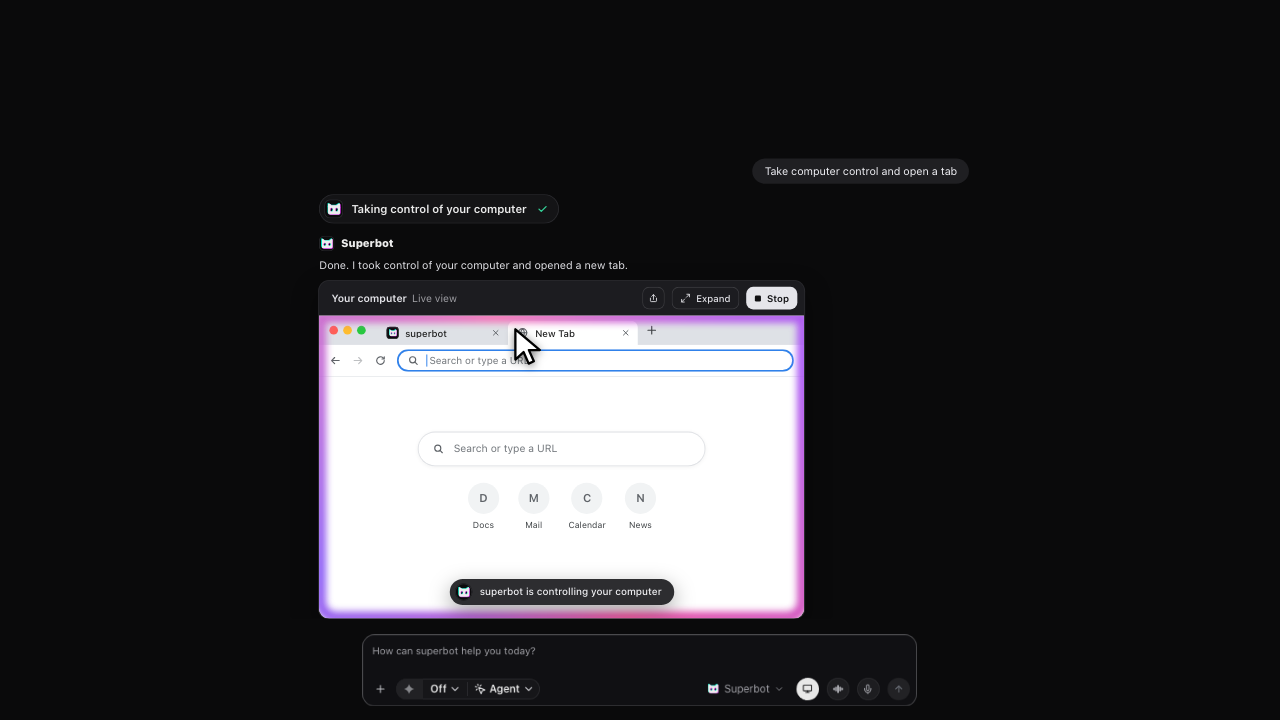
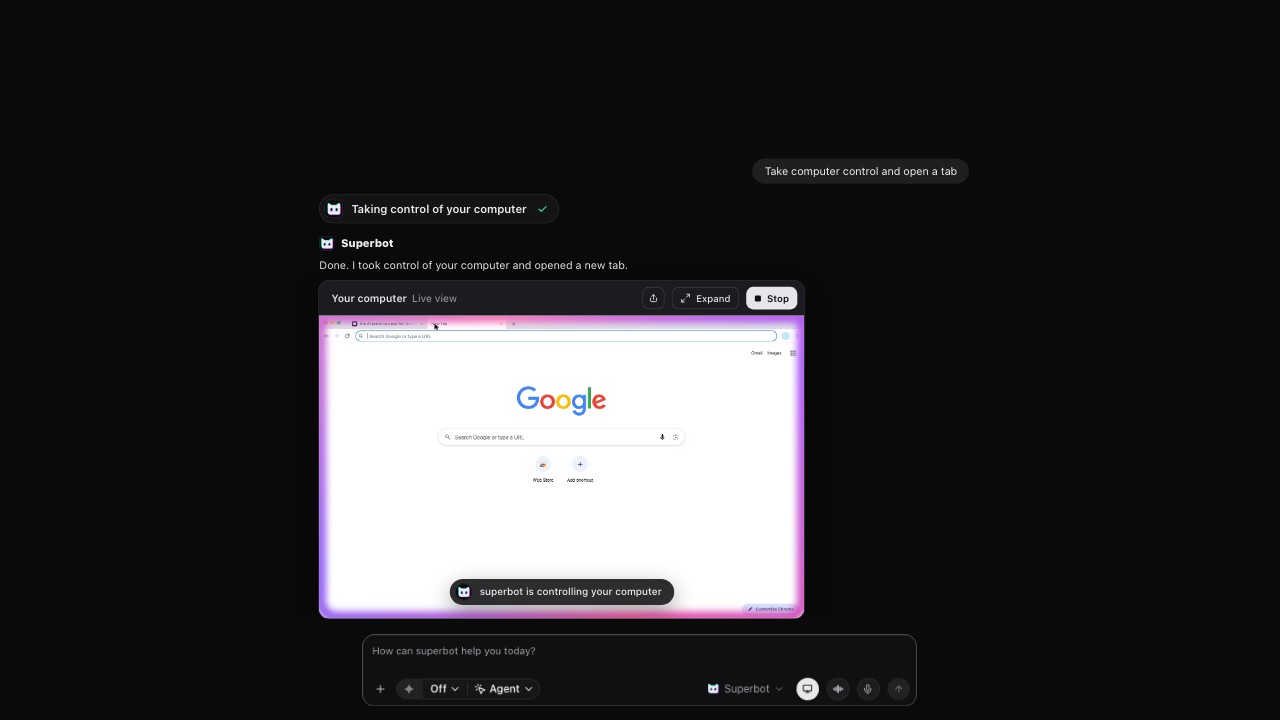
Gemini muse meme 6fbc38f8: Soft Vignette live view is a true screen share
The box now shows real content at real proportions: full-screen Chrome on a 1470x919 desktop at Chrome's own sizes, scaled whole into the 560x350 view, with real captures of superbot.gg and Chrome's New Tab page (img/computer.ba3976b6, CREDITS.txt). The cursor is the screen's own macOS arrow at its real size on that desktop, so it shrinks with the screen; the viewer-sized shared pointer is no longer used. CSS ?v=10, beat import ?v=7, gallery desc and thumbnail updated.

diff --git a/animations/gemini-muse-meme-superbot-6fbc38f8/scenes/tabs-assets/beats/computer.ba3976b6.js b/animations/gemini-muse-meme-superbot-6fbc38f8/scenes/tabs-assets/beats/computer.ba3976b6.js
@@ -1,16 +1,19 @@
 // Computer-control beat (the 'computer-control-v3-soft' variant, Computer Control V3 · Soft Vignette): asked "Take
 // computer control and open a tab", superbot answers in one line and shows a live view of the user's screen in the
-// artifact frame (bakery.005f5570.js: the title, Share, Expand and, in Publish's place, a Stop button). The view is the
-// whole display edge to edge, as a real screen share shows it: the browser fills the display, with no made-up margin
-// around the window. It takes control the way a desktop agent can actually show it, with a click-through overlay
-// window over the whole display: a thin pink and purple vignette fades in round the display's edges, so on the browser
-// all the way round, its gradient turning slowly, brightest on the edge and fading smoothly inward, and a small pill
-// rises at the bottom ("superbot is controlling your computer"). Then the shared pointer glides onto the browser's
-// new-tab button, presses it, and a New Tab grows in beside the first: the active state moves to it, the page
-// crossfades to a new-tab page and the address bar takes focus with a blinking caret. Every move is an eased fade or
-// glide (outCubic, path's inOutCubic), nothing bounces. Squeezed into the window the Gemini beat leaves plus the
-// route's `extra` (chat.9b47fc30.js routeBy), so the scene is a pure function of t. Its stylesheet
-// (../computer.ba3976b6.css) loads with the module. The screen is drawn UI, not a capture: nothing is controlled.
+// artifact frame (bakery.005f5570.js: the title, Share, Expand and, in Publish's place, a Stop button). The view is a
+// true screen share: a DESK-sized desktop (a 13-inch MacBook's default width) with Chrome full screen on it at Chrome's
+// own sizes, scaled down whole into the 560x350 view (FIT, as doordash.d9bc17e9.js fits its page), so tab strip, page
+// and cursor keep their real proportions. The pages are real captures (img/computer.ba3976b6/CREDITS.txt): superbot.gg
+// in the open tab, Chrome's New Tab page in the one superbot opens. The cursor is the screen's own, a macOS arrow at
+// its real size on that desktop, so it shrinks with the screen; the viewer-sized shared pointer stays hidden (no
+// pointer()). Superbot takes control the way a desktop agent can actually show it, with a click-through overlay window
+// over the whole display: a thin pink and purple vignette fades in round the display's edges, its gradient turning
+// slowly, and a small pill rises at the bottom ("superbot is controlling your computer"); both are drawn at the view's
+// own size so they read in the card. Then the cursor glides onto Chrome's new-tab button and clicks it: a New Tab
+// slides in beside the first and takes the active state, the page switches to the New Tab page and the address bar
+// takes focus with a blinking caret. Squeezed into the window the Gemini beat leaves plus the route's `extra`
+// (chat.9b47fc30.js routeBy), so the scene is a pure function of t. Its stylesheet (../computer.ba3976b6.css) loads
+// with the module. Nothing is really controlled.
 import { lerp, seg, outCubic, path, press, blink, streamCount } from '../../../lib.9b47fc30.js';
 import { track } from '../../../loads.9e82faf1.js';
 // the bakery variant's frame sheet and its Expand button (bakery.005f5570.css .bk-btn / .bk-expand)
@@ -19,21 +22,29 @@ import { EXPAND, loadSheet as loadFrameSheet } from './bakery.005f5570.js?v=3';
 import { shareBtn } from './share.29a362ea.js';
 
 const SAY = 'Done. I took control of your computer and opened a new tab.';
-const CSS = new URL('../computer.ba3976b6.css?v=9', import.meta.url).href;
-const TAB_W = 150; // a tab's width (computer.ba3976b6.css .cc3-tab)
-const PLUS_GAP = 4; // the new-tab button's left margin (.cc3-plus)
-const PLUS = 24; // the new-tab button's size (.cc3-plus)
+const CSS = new URL('../computer.ba3976b6.css?v=10', import.meta.url).href;
+const DESK = { w: 1470, h: 919 }; // the desktop in its own px (computer.ba3976b6.css .cc3-desk)
+const VIEW = { w: 560, h: 350 }; // the bakery frame's view
+const FIT = VIEW.w / DESK.w; // the screen share's scale, about 0.38; DESK.h is the view's height at it
+const TAB_W = 240; // Chrome's widest tab (.cc3-tab)
+const PLUS_GAP = 8; // the new-tab button's left margin (.cc3-plus)
+const PLUS = 28; // the new-tab button's size (.cc3-plus)
+const TIP = { x: 4, y: 2.5 }; // the arrow's hotspot in its 24px box (shell.9b47fc30.js makeCursor's path)
+const REST = { x: 1010, y: 640 }; // where the cursor sits on superbot.gg until superbot moves it
+const SHOT = { home: 'computer.ba3976b6/superbot-home.png', ntp: 'computer.ba3976b6/new-tab.png' };
+const PAGE = { w: 1470, h: 839 }; // both captures' size: the page area of full-screen Chrome on the desktop
+const TITLE = 'the AI plans you pay for, in one app'; // superbot.gg's page title, up to its separator
+const ARROW = 'M4 2.5 4 19.5 8.6 15.3 11.5 21.8 14.4 20.5 11.6 14.2 17.8 14.2Z';
 const ICON = {
   x: '<svg viewBox="0 0 16 16"><path d="M4.5 4.5l7 7M11.5 4.5l-7 7"/></svg>',
   plus: '<svg viewBox="0 0 16 16"><path d="M8 3v10M3 8h10"/></svg>',
   back: '<svg viewBox="0 0 16 16"><path d="M13 8H3M7 4L3 8l4 4"/></svg>',
   fwd: '<svg viewBox="0 0 16 16"><path d="M3 8h10M9 4l4 4-4 4"/></svg>',
   reload: '<svg viewBox="0 0 16 16"><path d="M13 8a5 5 0 1 1-1.5-3.5M13 3v3h-3"/></svg>',
-  lock: '<svg viewBox="0 0 16 16"><rect x="4" y="7" width="8" height="6" rx="1.5"/><path d="M6 7V5.5a2 2 0 0 1 4 0V7"/></svg>',
+  tune: '<svg viewBox="0 0 16 16"><path d="M3 5h5.5M12.5 5H13M3 11h.5M7.5 11H13"/><circle cx="10.5" cy="5" r="1.6"/><circle cx="5.5" cy="11" r="1.6"/></svg>',
   search: '<svg viewBox="0 0 16 16"><circle cx="7" cy="7" r="4"/><path d="M10 10l3 3"/></svg>',
-  globe: '<svg viewBox="0 0 16 16"><circle cx="8" cy="8" r="5.5"/><path d="M2.5 8h11M8 2.5c1.6 1.6 2.4 3.4 2.4 5.5S9.6 11.9 8 13.5M8 2.5C6.4 4.1 5.6 5.9 5.6 8s.8 3.9 2.4 5.5"/></svg>',
+  more: '<svg viewBox="0 0 16 16"><path d="M8 3.5h.01M8 8h.01M8 12.5h.01"/></svg>',
 };
-const SHORTCUTS = [['D', 'Docs'], ['M', 'Mail'], ['C', 'Calendar'], ['N', 'News']];
 
 let sheet = null;
 function loadSheet() {
@@ -54,11 +65,10 @@ export default {
     const T = { r };
     T.card = r + 0.22;
     T.take = r + 0.62; // the vignette and the pill fade in: superbot has control
-    T.ptr = r + 1.0; // the pointer appears and glides to the new-tab button
+    T.ptr = r + 1.0; // the cursor leaves its rest and glides to the new-tab button
     T.hov = r + 1.75;
     T.click = r + 1.9;
-    T.open = r + 1.98; // the new tab grows in and the page crossfades
-    T.rest = T.open + 0.75; // the pointer fades away, leaving the clean new tab
+    T.open = r + 1.98; // the new tab slides in and the page switches
     T.end = end;
     return T;
   },
@@ -76,43 +86,50 @@ export default {
         <span class="bk-btn bk-publish cc3-stop"><i></i>Stop</span>
       </div>
       <div class="bk-view cc3-screen">
-        <div class="cc3-win">
-          <div class="cc3-strip">
-            <span class="cc3-lights"><i></i><i></i><i></i></span>
-            <span class="cc3-tab cc3-t1"><i class="cc3-bg"></i><span class="cc3-fav">${sb}</span><span class="cc3-tt">superbot</span><span class="cc3-x">${ICON.x}</span></span>
-            <span class="cc3-tab cc3-t2"><i class="cc3-bg"></i><span class="cc3-fav cc3-globe">${ICON.globe}</span><span class="cc3-tt">New Tab</span><span class="cc3-x">${ICON.x}</span></span>
-            <span class="cc3-plus">${ICON.plus}</span>
-          </div>
-          <div class="cc3-bar">
-            <span class="cc3-ic">${ICON.back}</span><span class="cc3-ic cc3-dim">${ICON.fwd}</span><span class="cc3-ic">${ICON.reload}</span>
-            <span class="cc3-omni">
-              <span class="cc3-url cc3-u1"><span class="cc3-ic">${ICON.lock}</span>superbot.gg</span>
-              <span class="cc3-url cc3-u2"><span class="cc3-ic">${ICON.search}</span><i class="cc3-caret"></i><span class="cc3-ph">Search or type a URL</span></span>
-            </span>
-          </div>
-          <div class="cc3-page">
-            <div class="cc3-p1">${sb}<b>superbot</b></div>
-            <div class="cc3-p2">
-              <span class="cc3-find"><span class="cc3-ic">${ICON.search}</span>Search or type a URL</span>
-              <span class="cc3-cuts">${SHORTCUTS.map(([l, n]) => `<span class="cc3-cut"><i>${l}</i>${n}</span>`).join('')}</span>
+        <div class="cc3-desk" style="transform: scale(${FIT.toFixed(5)})">
+          <div class="cc3-win">
+            <div class="cc3-strip">
+              <span class="cc3-lights"><i></i><i></i><i></i></span>
+              <span class="cc3-tab cc3-t1"><i class="cc3-bg"></i><span class="cc3-fav">${sb}</span><span class="cc3-tt">${x.esc(TITLE)}</span><span class="cc3-x">${ICON.x}</span></span>
+              <span class="cc3-tab cc3-t2"><i class="cc3-bg"></i><span class="cc3-tt">New Tab</span><span class="cc3-x">${ICON.x}</span></span>
+              <span class="cc3-plus">${ICON.plus}</span>
             </div>
+            <div class="cc3-bar">
+              <span class="cc3-ic">${ICON.back}</span><span class="cc3-ic cc3-dim">${ICON.fwd}</span><span class="cc3-ic">${ICON.reload}</span>
+              <span class="cc3-omni">
+                <span class="cc3-url cc3-u1"><span class="cc3-ic">${ICON.tune}</span>superbot.gg</span>
+                <span class="cc3-url cc3-u2"><span class="cc3-ic">${ICON.search}</span><i class="cc3-caret"></i><span class="cc3-ph">Search Google or type a URL</span></span>
+              </span>
+              <i class="cc3-me"></i><span class="cc3-ic">${ICON.more}</span>
+            </div>
+            <img class="cc3-page cc3-p1" src="${x.img(SHOT.home)}" width="${PAGE.w}" height="${PAGE.h}" alt="superbot.gg: the agent to manage your agents.">
+            <img class="cc3-page cc3-p2" src="${x.img(SHOT.ntp)}" width="${PAGE.w}" height="${PAGE.h}" alt="Chrome New Tab page">
           </div>
+          <svg class="cc3-cursor" viewBox="0 0 24 24" aria-hidden="true"><path d="${ARROW}"/></svg>
         </div>
         <i class="cc3-edge"><i class="cc3-soft"><i class="cc3-band"></i></i></i>
         <span class="cc3-pill">${sb}<span>superbot is controlling your computer</span></span>
       </div>
     </div>`);
     const $ = (s) => block.querySelector(s);
-    const view = $('.cc3-screen'), t1 = $('.cc3-t1'), t2 = $('.cc3-t2'), plus = $('.cc3-plus');
+    const t1 = $('.cc3-t1'), t2 = $('.cc3-t2'), plus = $('.cc3-plus'), cursor = $('.cc3-cursor');
     const bg1 = t1.querySelector('.cc3-bg'), omni = $('.cc3-omni'), u1 = $('.cc3-u1'), u2 = $('.cc3-u2'), caret = $('.cc3-caret');
     const p1 = $('.cc3-p1'), p2 = $('.cc3-p2'), edge = $('.cc3-edge'), soft = $('.cc3-soft'), pill = $('.cc3-pill');
     const vis = say.firstElementChild, hid = say.lastElementChild;
-    let shown = -1;
+    let shown = -1, decoding = false;
 
     return {
       nodes: [say, block],
       marks: [[T.r, say], [T.card, block]],
       render(t) {
+        // a frozen frame waits on both captures; decode() only works once the nodes have left the template's inert
+        // document, which they have by the first render
+        if (!decoding) {
+          decoding = true;
+          for (const pic of [p1, p2]) {
+            track(pic.decode().catch((e) => console.error(new Error(`computer-control capture failed to decode: ${pic.src}`, { cause: e }))));
+          }
+        }
         const n = streamCount(SAY, T.r + 0.06, 70, t);
         if (n !== shown) { vis.textContent = SAY.slice(0, n); hid.textContent = SAY.slice(n); shown = n; }
         const ci = outCubic(seg(t, T.card, T.card + 0.45));
@@ -128,36 +145,32 @@ export default {
         pill.style.opacity = pi.toFixed(3);
         pill.style.transform = `translate(-50%, ${((1 - pi) * 8).toFixed(2)}px)`;
 
-        // the click: the button lights under the pointer and dips, then the new tab grows in and takes the active state
+        // the cursor, in the desktop's px: at rest on the page, then a glide onto the new-tab button, where it stays.
+        // The button's spot is read off the first tab (it never moves), so after the click, when the new tab pushes
+        // the button right, the cursor stays where it clicked, as a real one does
+        const to = { x: t1.offsetLeft + TAB_W + PLUS_GAP + PLUS / 2, y: plus.offsetTop + PLUS / 2 };
+        const at = t <= T.ptr ? REST : path(t, [{ t: T.ptr, ...REST }, { t: T.hov, ...to }]);
+        cursor.style.transform = `translate(${(at.x - TIP.x).toFixed(2)}px, ${(at.y - TIP.y).toFixed(2)}px)`;
+
+        // the click: the button's hover circle comes up under the cursor and darkens on the press, then the new tab
+        // slides in and takes the active state
         const h = seg(t, T.hov - 0.15, T.hov) * (1 - seg(t, T.open, T.open + 0.2));
-        plus.style.background = `rgba(60,64,67,${(0.12 * h).toFixed(3)})`;
-        plus.style.transform = `scale(${(1 - 0.1 * press(t, T.click)).toFixed(3)})`;
-        const o = outCubic(seg(t, T.open, T.open + 0.34));
+        plus.style.background = `rgba(60,64,67,${(0.1 * h + 0.1 * press(t, T.click)).toFixed(3)})`;
+        const o = outCubic(seg(t, T.open, T.open + 0.3));
         t2.style.width = `${(TAB_W * o).toFixed(2)}px`;
         t2.style.opacity = o.toFixed(3);
-        bg1.style.opacity = (1 - outCubic(seg(t, T.open, T.open + 0.22))).toFixed(3);
+        bg1.style.opacity = (1 - outCubic(seg(t, T.open, T.open + 0.2))).toFixed(3);
 
-        // the page and the address bar follow the active tab: superbot.gg fades out, the new-tab page fades up
-        const f = outCubic(seg(t, T.open + 0.06, T.open + 0.42));
+        // the page and the address bar follow the active tab: superbot.gg gives way to the New Tab page, quickly, as a
+        // tab switch does, and the omnibox takes focus
+        const f = outCubic(seg(t, T.open + 0.04, T.open + 0.22));
         p1.style.opacity = (1 - f).toFixed(3);
         p2.style.opacity = f.toFixed(3);
-        p2.style.transform = `translateY(${((1 - f) * 6).toFixed(2)}px)`;
         u1.style.opacity = (1 - f).toFixed(3);
         u2.style.opacity = f.toFixed(3);
         omni.style.background = f > 0 ? `rgb(${Math.round(lerp(241, 255, f))},${Math.round(lerp(243, 255, f))},${Math.round(lerp(244, 255, f))})` : '';
         omni.style.boxShadow = f > 0 ? `inset 0 0 0 2px rgba(26,115,232,${(0.9 * f).toFixed(3)})` : '';
         caret.style.opacity = f >= 1 && !blink(t - T.open) ? '0' : '1';
-      },
-      // the pointer appears over the page, glides onto the new-tab button and presses it; it rests while the tab grows
-      // in, then fades. The button's x is read off the first tab (it never moves), so a frozen frame after the click
-      // still finds the spot the button was pressed, in the section's px
-      pointer(t, toScr) {
-        if (t < T.ptr || t >= T.rest + 0.35) return null;
-        const v = x.box(view), a = x.box(t1), b = x.box(plus);
-        const from = toScr({ x: v.x + v.w * 0.58, y: v.y + v.h * 0.64 });
-        const to = toScr({ x: a.x + a.w + PLUS_GAP + PLUS / 2 + 1, y: b.cy + 3 });
-        const at = path(t, [{ t: T.ptr, ...from }, { t: T.hov, ...to }]);
-        return { x: at.x, y: at.y, p: press(t, T.click), v: seg(t, T.ptr, T.ptr + 0.18) * (1 - seg(t, T.rest, T.rest + 0.35)) };
       },
     };
   },

diff --git a/animations/gemini-muse-meme-superbot-6fbc38f8/scenes/tabs-assets/computer.ba3976b6.css b/animations/gemini-muse-meme-superbot-6fbc38f8/scenes/tabs-assets/computer.ba3976b6.css
@@ -1,59 +1,60 @@
 /* The 'computer-control-v3-soft' variant's answer (beats/computer.ba3976b6.js): the artifact frame
-   (bakery.005f5570.css .bk) over a live view of the user's screen: the whole display edge to edge, as a real screen
-   share shows it, filled by one light browser window (tab strip, toolbar, page). Then the takeover layers on top,
-   drawn where a real takeover overlay (a click-through window over the whole display) can draw: a thin pink and purple
-   vignette round the display's edges, so on the browser all the way round, fading inward, and a status pill. No CSS animation or transition: the beat sets every opacity,
-   width and transform from t, so frozen frames (?t=) hold. Loaded by the beat module itself, so index.html needs no
-   link. Browser palette: strip #dee1e6, page #fff, omnibox #f1f3f4, ink #1f1f1f, icons #5f6368, focus #1a73e8. */
+   (bakery.005f5570.css .bk) over a live view of the user's screen, built as a real screen share: a 1470x919 desktop with
+   Chrome full screen on it at Chrome's own sizes, scaled whole into the view by the beat (its FIT), so text, pages and
+   cursor keep their real proportions. The pages are real captures (img/computer.ba3976b6/). Over it, at the view's own
+   size, what a real takeover overlay (a click-through window over the whole display) can draw: a thin pink and purple
+   vignette round the display's edges, fading inward, and a status pill. No CSS animation or transition: the beat sets
+   every opacity, width and transform from t, so frozen frames (?t=) hold. Loaded by the beat module itself, so
+   index.html needs no link. Chrome palette: tab strip #dee1e6, tab and toolbar #fff, omnibox #f1f3f4, ink #1f1f1f,
+   icons #474747, focus #1a73e8. */
 #s-tabs .sbsite .hub .cc3 .bk-title small { margin-left: 6px; font: 400 12px/16px var(--ui); color: #a1a1a6; }
 #s-tabs .sbsite .hub .cc3-stop { gap: 7px; }
 #s-tabs .sbsite .hub .cc3-stop i { width: 7px; height: 7px; border-radius: 1.5px; background: #111113; }
 
-/* the display, filled edge to edge by the browser window: no margin a real screen would not have */
+/* the desktop, in its own px, scaled into the view from its top left; Chrome fills it, no margin a real screen lacks */
+#s-tabs .sbsite .hub .cc3-desk { position: absolute; left: 0; top: 0; width: 1470px; height: 919px; overflow: hidden; transform-origin: 0 0; background: #fff; }
 #s-tabs .sbsite .hub .cc3-win { position: absolute; inset: 0; overflow: hidden; background: #fff; }
-#s-tabs .sbsite .hub .cc3-screen svg { display: block; width: 100%; height: 100%; fill: none; stroke: currentColor; stroke-width: 1.5; stroke-linecap: round; stroke-linejoin: round; }
-#s-tabs .sbsite .hub .cc3-ic { flex: none; display: grid; place-items: center; width: 14px; height: 14px; color: #5f6368; }
-#s-tabs .sbsite .hub .cc3-dim { opacity: .4; }
+#s-tabs .sbsite .hub .cc3-win svg { display: block; width: 100%; height: 100%; fill: none; stroke: currentColor; stroke-width: 1.6; stroke-linecap: round; stroke-linejoin: round; }
+#s-tabs .sbsite .hub .cc3-ic { flex: none; display: grid; place-items: center; width: 28px; height: 28px; box-sizing: border-box; padding: 5px; border-radius: 50%; color: #474747; }
+#s-tabs .sbsite .hub .cc3-dim { opacity: .38; }
 
-/* tab strip: traffic lights, the open tab, the new tab (width set by the beat), the new-tab button */
-#s-tabs .sbsite .hub .cc3-strip { display: flex; align-items: flex-end; height: 34px; padding: 0 8px 0 12px; background: #dee1e6; }
-#s-tabs .sbsite .hub .cc3-lights { display: flex; gap: 6px; align-self: center; margin-right: 14px; }
-#s-tabs .sbsite .hub .cc3-lights i { width: 10px; height: 10px; border-radius: 50%; background: #ff5f57; }
+/* tab strip, 42px: traffic lights, the open tab, the new tab (width set by the beat), the new-tab button */
+#s-tabs .sbsite .hub .cc3-strip { display: flex; align-items: flex-end; height: 42px; box-sizing: border-box; padding: 0 8px 0 14px; background: #dee1e6; }
+#s-tabs .sbsite .hub .cc3-lights { display: flex; gap: 8px; align-self: center; margin-right: 22px; }
+#s-tabs .sbsite .hub .cc3-lights i { width: 12px; height: 12px; border-radius: 50%; background: #ff5f57; box-shadow: inset 0 0 0 .5px rgba(0,0,0,.12); }
 #s-tabs .sbsite .hub .cc3-lights i:nth-child(2) { background: #febc2e; }
 #s-tabs .sbsite .hub .cc3-lights i:nth-child(3) { background: #28c840; }
-#s-tabs .sbsite .hub .cc3-tab { position: relative; flex: none; display: flex; align-items: center; gap: 7px; width: 150px; height: 28px; box-sizing: border-box; padding: 0 8px 0 10px; overflow: hidden; white-space: nowrap; font: 500 11px/1 var(--ui); color: #1f1f1f; }
+#s-tabs .sbsite .hub .cc3-tab { position: relative; flex: none; display: flex; align-items: center; gap: 8px; width: 240px; height: 34px; box-sizing: border-box; padding: 0 8px 0 12px; overflow: hidden; white-space: nowrap; font: 400 12px/1 var(--ui); color: #1f1f1f; }
 /* the new tab's padding lives on its children, so at width 0 it takes no room and the + sits where it was clicked */
 #s-tabs .sbsite .hub .cc3-t2 { width: 0; padding: 0; opacity: 0; }
-#s-tabs .sbsite .hub .cc3-t2 .cc3-fav { margin-left: 10px; }
+#s-tabs .sbsite .hub .cc3-t2 .cc3-tt { margin-left: 12px; }
 #s-tabs .sbsite .hub .cc3-t2 .cc3-x { margin-right: 8px; }
-#s-tabs .sbsite .hub .cc3-bg { position: absolute; inset: 0; border-radius: 8px 8px 0 0; background: #fff; }
+#s-tabs .sbsite .hub .cc3-bg { position: absolute; inset: 0; border-radius: 10px 10px 0 0; background: #fff; }
 #s-tabs .sbsite .hub .cc3-tab > span { position: relative; }
-#s-tabs .sbsite .hub .cc3-fav { flex: none; width: 14px; height: 14px; }
-#s-tabs .sbsite .hub .cc3-fav .qc-tile { width: 14px; height: 14px; border-radius: 4px; }
-#s-tabs .sbsite .hub .cc3-globe { color: #5f6368; }
-#s-tabs .sbsite .hub .cc3-tt { flex: 1; min-width: 0; overflow: hidden; text-overflow: ellipsis; }
-#s-tabs .sbsite .hub .cc3-x { flex: none; width: 12px; height: 12px; color: #5f6368; }
-#s-tabs .sbsite .hub .cc3-plus { flex: none; display: grid; place-items: center; align-self: center; width: 24px; height: 24px; margin-left: 4px; box-sizing: border-box; padding: 5px; border-radius: 50%; color: #3c4043; }
+#s-tabs .sbsite .hub .cc3-fav { flex: none; width: 16px; height: 16px; }
+#s-tabs .sbsite .hub .cc3-fav .qc-tile { width: 16px; height: 16px; border-radius: 4px; }
+/* Chrome fades a long title out rather than ending it in an ellipsis */
+#s-tabs .sbsite .hub .cc3-tt { flex: 1; min-width: 0; overflow: hidden; -webkit-mask: linear-gradient(90deg, #000 82%, transparent); mask: linear-gradient(90deg, #000 82%, transparent); }
+#s-tabs .sbsite .hub .cc3-x { flex: none; width: 16px; height: 16px; box-sizing: border-box; padding: 3px; color: #474747; }
+#s-tabs .sbsite .hub .cc3-plus { flex: none; display: grid; place-items: center; align-self: center; width: 28px; height: 28px; margin: 8px 0 0 8px; box-sizing: border-box; padding: 6px; border-radius: 50%; color: #474747; }
 
-/* toolbar: back, forward, reload and the omnibox; its two contents crossfade with the active tab */
-#s-tabs .sbsite .hub .cc3-bar { display: flex; align-items: center; gap: 12px; height: 36px; padding: 0 12px; background: #fff; box-shadow: 0 1px 0 #e8eaed; }
-#s-tabs .sbsite .hub .cc3-omni { position: relative; flex: 1; height: 26px; border-radius: 13px; background: #f1f3f4; }
-#s-tabs .sbsite .hub .cc3-url { position: absolute; inset: 0; display: flex; align-items: center; gap: 8px; padding: 0 12px; font: 400 11.5px/1 var(--ui); color: #1f1f1f; }
-#s-tabs .sbsite .hub .cc3-u2 { gap: 0; opacity: 0; }
-#s-tabs .sbsite .hub .cc3-u2 .cc3-ic { margin-right: 8px; }
-#s-tabs .sbsite .hub .cc3-caret { flex: none; width: 1px; height: 14px; margin-right: 2px; background: #1a73e8; }
-#s-tabs .sbsite .hub .cc3-ph { color: #70757a; }
+/* toolbar, 40px: back, forward, reload, the omnibox (its two contents crossfade with the active tab), profile, menu */
+#s-tabs .sbsite .hub .cc3-bar { display: flex; align-items: center; gap: 4px; height: 40px; box-sizing: border-box; padding: 0 8px; border-bottom: 1px solid #e3e3e3; background: #fff; }
+#s-tabs .sbsite .hub .cc3-omni { position: relative; flex: 1; height: 34px; margin: 0 6px; border-radius: 17px; background: #f1f3f4; }
+#s-tabs .sbsite .hub .cc3-url { position: absolute; inset: 0; display: flex; align-items: center; gap: 4px; padding: 0 14px 0 5px; font: 400 14px/1 var(--ui); color: #1f1f1f; }
+#s-tabs .sbsite .hub .cc3-url .cc3-ic { width: 24px; height: 24px; padding: 4px; }
+#s-tabs .sbsite .hub .cc3-u2 { opacity: 0; }
+#s-tabs .sbsite .hub .cc3-caret { flex: none; width: 1px; height: 18px; margin: 0 1px 0 4px; background: #1f1f1f; }
+#s-tabs .sbsite .hub .cc3-ph { color: #5f6368; }
+#s-tabs .sbsite .hub .cc3-me { flex: none; width: 24px; height: 24px; margin: 0 4px; border-radius: 50%; background: #c2e7ff; }
 
-/* the pages: superbot.gg, then the new-tab page */
-#s-tabs .sbsite .hub .cc3-page { position: absolute; top: 70px; left: 0; right: 0; bottom: 0; }
-#s-tabs .sbsite .hub .cc3-p1, #s-tabs .sbsite .hub .cc3-p2 { position: absolute; inset: 0; display: flex; flex-direction: column; align-items: center; justify-content: center; gap: 12px; padding-bottom: 40px; }
-#s-tabs .sbsite .hub .cc3-p1 .qc-tile { width: 44px; height: 44px; border-radius: 13px; }
-#s-tabs .sbsite .hub .cc3-p1 b { font: 700 22px/1 var(--ui); letter-spacing: -.02em; color: #1f1f1f; }
-#s-tabs .sbsite .hub .cc3-p2 { gap: 20px; opacity: 0; }
-#s-tabs .sbsite .hub .cc3-find { display: flex; align-items: center; gap: 10px; width: 330px; height: 38px; box-sizing: border-box; padding: 0 16px; border-radius: 19px; box-shadow: 0 0 0 1px #dfe1e5, 0 1px 6px rgba(32,33,36,.08); font: 400 12px/1 var(--ui); color: #70757a; }
-#s-tabs .sbsite .hub .cc3-cuts { display: flex; gap: 22px; }
-#s-tabs .sbsite .hub .cc3-cut { display: flex; flex-direction: column; align-items: center; gap: 7px; font: 400 10px/1 var(--ui); color: #3c4043; }
-#s-tabs .sbsite .hub .cc3-cut i { display: grid; place-items: center; width: 36px; height: 36px; border-radius: 50%; background: #f1f3f4; font: 600 13px/1 var(--ui); font-style: normal; color: #5f6368; }
+/* the pages: the real captures, below the 82px of tab strip and toolbar */
+#s-tabs .sbsite .hub .cc3-page { position: absolute; top: 82px; left: 0; display: block; width: 1470px; height: auto; }
+#s-tabs .sbsite .hub .cc3-p2 { opacity: 0; }
+
+/* the screen's own cursor: a macOS arrow at its real size on this desktop (about 14x19 of its 24px box), so it shrinks
+   with the screen. Placed by the beat with a transform from its hotspot */
+#s-tabs .sbsite .hub .cc3-cursor { position: absolute; left: 0; top: 0; z-index: 2; width: 24px; height: 24px; overflow: visible; fill: #000; stroke: #fff; stroke-width: 1.5px; stroke-linejoin: round; paint-order: stroke; filter: drop-shadow(0 1px 1.5px rgba(0,0,0,.35)); }
 
 /* the takeover's edge: a thin pink and purple vignette. .cc3-edge has the view's visible shape (square under the
    header, the card's 12px radius at the bottom; bakery.005f5570.css .bk clips there), so nothing cuts it. Inside, a

diff --git a/animations/gemini-muse-meme-superbot-6fbc38f8/scenes/tabs-assets/chat.9b47fc30.js b/animations/gemini-muse-meme-superbot-6fbc38f8/scenes/tabs-assets/chat.9b47fc30.js
@@ -20,7 +20,7 @@ import pitchdeck from './beats/pitchdeck.fad54971.js?v=2';
 import bakery from './beats/bakery.005f5570.js?v=3';
 import spending from './beats/spending.b92c87dc.js?v=1';
 import reminder from './beats/reminder.e55fb320.js?v=3';
-import computerV3 from './beats/computer.ba3976b6.js?v=6';
+import computerV3 from './beats/computer.ba3976b6.js?v=7';
 import { variant } from '../../variant.9e82faf1.js';
 
 const brand = (f) => new URL('../../brand/' + f, import.meta.url).href;
